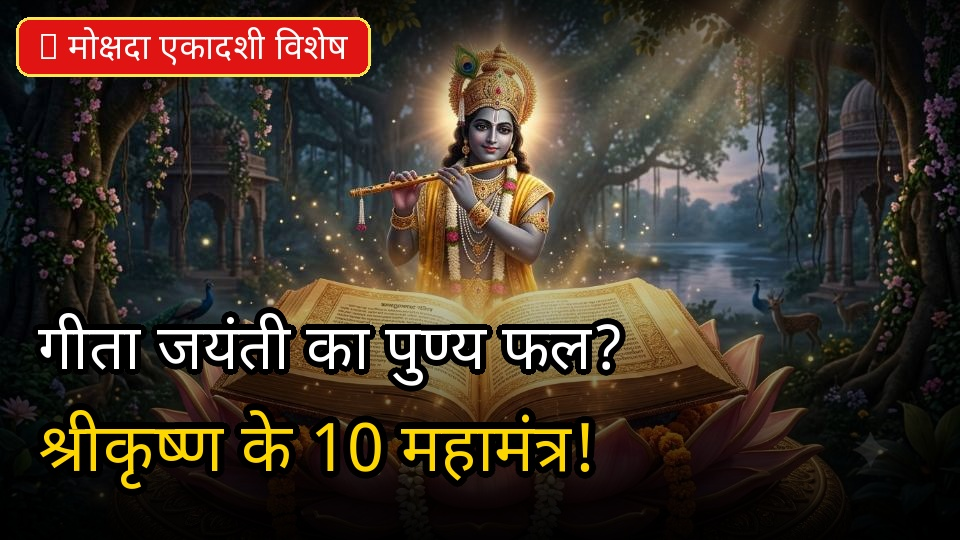
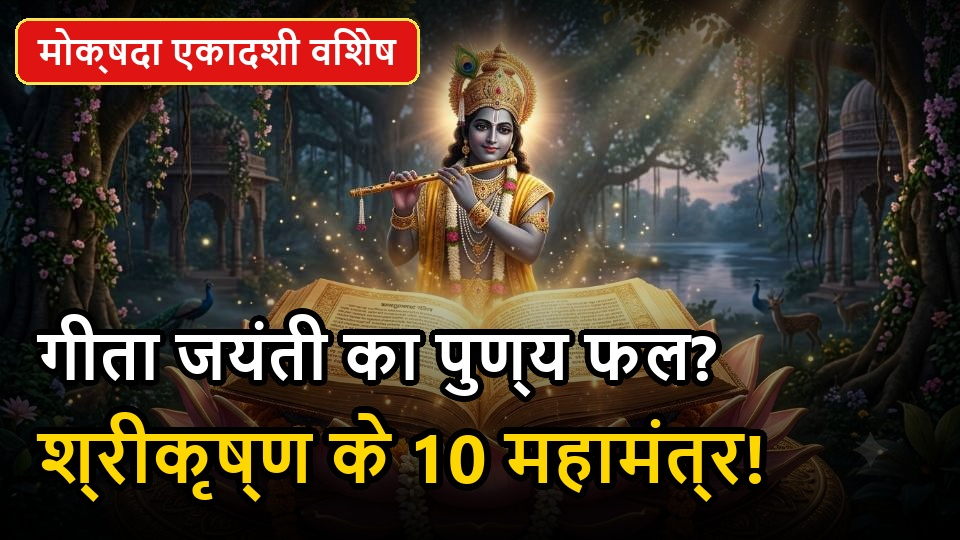
fix(typography): eliminate tofu square box glyphs from all article thumbnails

Changed region(s): [[0.0312, 0.563, 0.8125, 0.9481], [0.0, 0.0296, 0.4375, 0.1778]]

diff --git a/create_viral_thumbnail.py b/create_viral_thumbnail.py
@@ -2,13 +2,24 @@
 # -*- coding: utf-8 -*-
 import sys
 import os
+import re
 from PIL import Image, ImageDraw, ImageFont
+
+def strip_unsupported_emojis(text: str) -> str:
+    """Removes emoji characters that lack glyphs in Devanagari fonts to prevent square boxes (tofu)."""
+    # Remove emoji characters (surrogate pairs / high unicode codepoints)
+    return re.sub(r'[\U00010000-\U0010ffff]', '', text).strip()
 
 def create_high_ctr_thumbnail(image_path, badge_text, headline_line1, headline_line2, output_path):
     """
     Overlays ULTRA-BOLD, unmissable, viral YouTube/Google Discover Hindi typography
     with thick solid borders & badges on the 16:9 thumbnail.
+    Ensures 100% clean Hindi text with ZERO square box symbols.
     """
+    badge_text = strip_unsupported_emojis(badge_text)
+    headline_line1 = strip_unsupported_emojis(headline_line1)
+    headline_line2 = strip_unsupported_emojis(headline_line2)
+
     im = Image.open(image_path).convert("RGBA")
     w, h = im.size
     
@@ -30,24 +41,34 @@ def create_high_ctr_thumbnail(image_path, badge_text, headline_line1, headline_l
     
     # Fonts
     hindi_font_paths = [
+        r"C:\Windows\Fonts\Nirmala.ttc",
+        r"C:\Windows\Fonts\arialbd.ttf",
         "/system/fonts/NotoSansDevanagari-VF.ttf",
         "/system/fonts/MiSansDevanagariVF.ttf",
         "/data/user/0/ai.antigem/files/home/extensions/.antigem-backup/2d-video-editing-studio/fonts/hindi/Baloo2-Bold.ttf",
         "/system/fonts/NotoSansDevanagariUI-VF.ttf"
     ]
     font_path = None
+    font_index = 0
     for p in hindi_font_paths:
         if os.path.exists(p):
             font_path = p
+            if p.lower().endswith(".ttc"):
+                font_index = 1
             break
             
     badge_size = int(h * 0.065)
     line1_size = int(h * 0.115)
     line2_size = int(h * 0.125)
     
-    badge_font = ImageFont.truetype(font_path, badge_size)
-    h_font1 = ImageFont.truetype(font_path, line1_size)
-    h_font2 = ImageFont.truetype(font_path, line2_size)
+    if font_path.lower().endswith(".ttc"):
+        badge_font = ImageFont.truetype(font_path, badge_size, index=font_index)
+        h_font1 = ImageFont.truetype(font_path, line1_size, index=font_index)
+        h_font2 = ImageFont.truetype(font_path, line2_size, index=font_index)
+    else:
+        badge_font = ImageFont.truetype(font_path, badge_size)
+        h_font1 = ImageFont.truetype(font_path, line1_size)
+        h_font2 = ImageFont.truetype(font_path, line2_size)
     
     # --- Top Badge ---
     bx, by = int(w * 0.04), int(h * 0.05)
@@ -76,14 +97,14 @@ def create_high_ctr_thumbnail(image_path, badge_text, headline_line1, headline_l
     
     im = im.convert("RGB")
     im.save(output_path, "JPEG", quality=95)
-    print(f"Generated ultra bold viral thumbnail: {output_path}")
+    print(f"Generated clean ultra bold viral thumbnail: {output_path}")
 
 if __name__ == "__main__":
-    src = "/data/user/0/ai.antigem/files/home/projects/Auto-Insta-Krishna/website/public/images/articles/kalikaal-overthinking-gita-upay-hero.jpg"
-    out = "/data/user/0/ai.antigem/files/home/projects/Auto-Insta-Krishna/website/public/images/articles/gita-upay-krishna-arjuna-viral-hero.jpg"
+    src = r"E:\Paresh\Auto Post\Auto-Insta-Krishna\website\public\images\articles\kalikaal-overthinking-gita-upay-hero.jpg"
+    out = r"E:\Paresh\Auto Post\Auto-Insta-Krishna\website\public\images\articles\krishna-arjuna-viral-thumb-v2.jpg"
     create_high_ctr_thumbnail(
         src,
-        "🔥 भगवद्गीता का गुप्त रहस्य",
+        "भगवद्गीता का गुप्त रहस्य",
         "मन शांत नहीं रहता?",
         "श्रीकृष्ण का 1 अचूक नियम!",
         out
